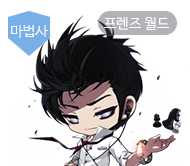
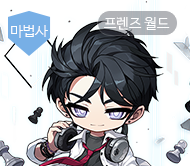
Update Kinesis: Remastered illustration and new Ability recommendations

diff --git a/components/AbilityWidget.tsx b/components/AbilityWidget.tsx
@@ -69,7 +69,7 @@ const ABILITY_DB: Record<string, AbilityPreset[]> = {
     "캡틴": [{ type: "추천 세팅", options: ["스킬 사용 시 재사용 대기시간 미적용 20%", "보스 몬스터 공격 시 데미지 증가 10%", "상태 이상에 걸린 대상 공격 시 데미지 8%"] }],
     "캐논마스터": [{ type: "추천 세팅", options: ["보스 몬스터 공격 시 데미지 증가 20%", "상태 이상에 걸린 대상 공격 시 데미지 8%", "공격력 증가 21"] }],
     "캐논슈터": [{ type: "추천 세팅", options: ["보스 몬스터 공격 시 데미지 증가 20%", "상태 이상에 걸린 대상 공격 시 데미지 8%", "공격력 증가 21"] }],
-    "키네시스": [{ type: "추천 세팅", options: ["패시브 스킬 레벨 증가 1", "보스 몬스터 공격 시 데미지 증가 10%", "상태 이상에 걸린 대상 공격 시 데미지 증가 8%"] }],
+    "키네시스": [{ type: "추천 세팅", options: ["보스 몬스터 공격 시 데미지 20% 증가", "상태 이상에 걸린 대상 공격 시 데미지 8% 증가", "버프 지속시간 38% 증가 OR 마력 21 증가"] }],
     "팔라딘": [{ type: "추천 세팅", options: ["보스 몬스터 공격 시 데미지 20% 증가", "상태 이상에 걸린 대상 공격 시 데미지 8% 증가", "공격력 21 증가"] }],
     "패스파인더": [
         { type: "일반 세팅", options: ["재사용 대기시간 미적용 20%", "보스 몬스터 공격 시 데미지 증가 10%", "크리티컬 확률 증가 20%"] },

diff --git a/src/data/diagnosisData.ts b/src/data/diagnosisData.ts
@@ -199,7 +199,7 @@ export const ABILITY_DB: Record<string, AbilityPreset[]> = {
     "캐논마스터": [{ type: "추천 세팅", options: ["보스 몬스터 공격 시 데미지 증가 20%", "상태 이상에 걸린 대상 공격 시 데미지 8%", "공격력 증가 21"] }],
 
     "캐논슈터": [{ type: "추천 세팅", options: ["보스 몬스터 공격 시 데미지 증가 20%", "상태 이상에 걸린 대상 공격 시 데미지 8%", "공격력 증가 21"] }],
-    "키네시스": [{ type: "추천 세팅", options: ["패시브 스킬 레벨 증가 1", "보스 몬스터 공격 시 데미지 증가 10%", "상태 이상에 걸린 대상 공격 시 데미지 증가 8%"] }],
+    "키네시스": [{ type: "추천 세팅", options: ["보스 몬스터 공격 시 데미지 20% 증가", "상태 이상에 걸린 대상 공격 시 데미지 8% 증가", "버프 지속시간 38% 증가 OR 마력 21 증가"] }],
     "팔라딘": [{ type: "추천 세팅", options: ["보스 몬스터 공격 시 데미지 20% 증가", "상태 이상에 걸린 대상 공격 시 데미지 8% 증가", "공격력 21 증가"] }],
     "패스파인더": [
         { type: "일반 세팅", options: ["재사용 대기시간 미적용 20%", "보스 몬스터 공격 시 데미지 증가 10%", "크리티컬 확률 증가 20%"] },

diff --git a/app/guide/ability-guide/AbilityGuideClient.tsx b/app/guide/ability-guide/AbilityGuideClient.tsx
@@ -50,7 +50,7 @@ const ABILITY_DATA = [
     { job: '호영', abilities: ['패시브 스킬 레벨 증가 1', '보스 몬스터 공격 시 데미지 증가 10%', '상태 이상에 걸린 대상 공격 시 데미지 증가 8%'] },
     { job: '라라', abilities: ['패시브 스킬 레벨 증가 1', '보스 몬스터 공격 시 데미지 증가 10%', '상태 이상에 걸린 대상 공격 시 데미지 증가 8%'] },
     { job: '렌', abilities: ['보스 몬스터 공격 시 데미지 20% 증가', '상태 이상에 걸린 대상 공격 시 데미지 8% 증가', '공격력 21 증가'] },
-    { job: '키네시스', abilities: ['패시브 스킬 레벨 증가 1', '보스 몬스터 공격 시 데미지 증가 10%', '상태 이상에 걸린 대상 공격 시 데미지 증가 8%'] },
+    { job: '키네시스', abilities: ['보스 몬스터 공격 시 데미지 20% 증가', '상태 이상에 걸린 대상 공격 시 데미지 8% 증가', '버프 지속시간 38% 증가 OR 마력 21 증가'] },
     { job: '제로', abilities: ['보스 몬스터 공격 시 데미지 증가 20%', '상태 이상에 걸린 대상 공격 시 데미지 증가 8%', '공격력 증가 21'] },
 ];
 
